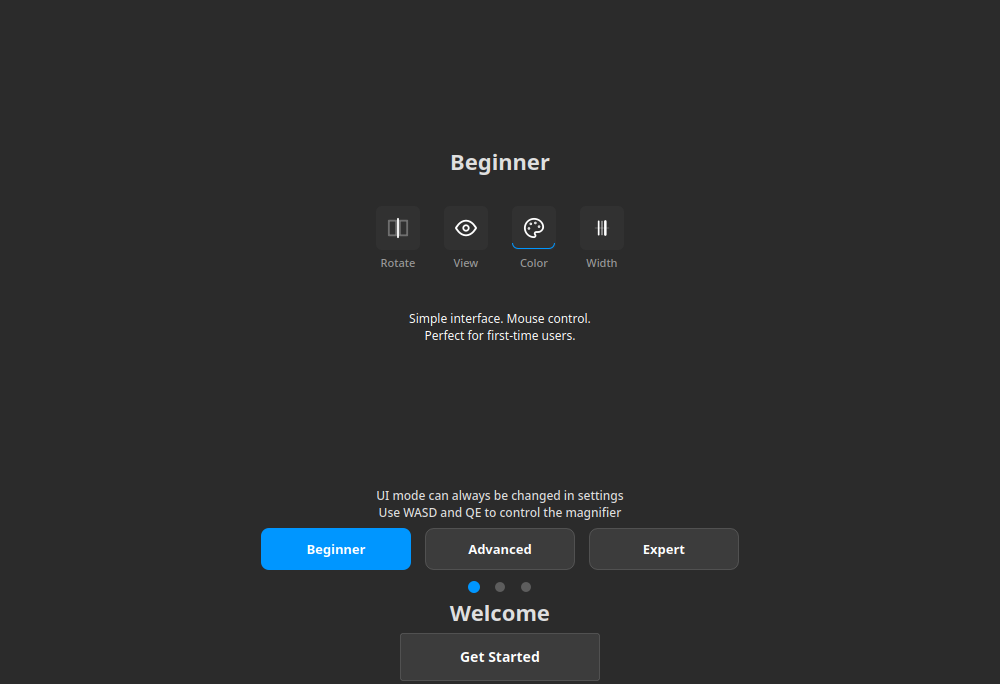
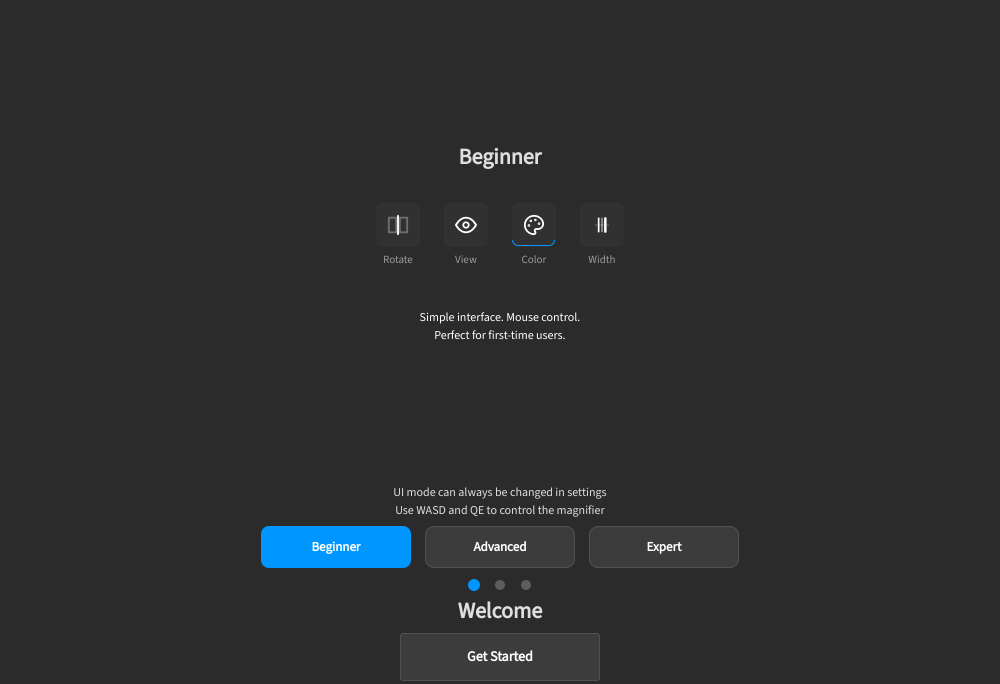
feat(devtools): regenerate the covered help figures at a pinned canonical env (P4) (#498)
feat(devtools): regenerate the covered help figures at a pinned canonical env (P4) (#498)

Canonical capture env (bundled Source Sans 3, QT_SCALE_FACTOR=1, QT_FONT_DPI=96,
Xvfb -dpi 96, xcb) so sha256 baselines are host-independent; 4 covered figures
regenerated + baselined (parity 1280x800/1000x684/1016x776/1032x792); session
picker re-classified hand-composed (no icons / default palette in the surface).
Evidence: --check ok=4 twice, --compare parity=4, devtools+contracts 3011 passed.

diff --git a/src/devtools/help_figures.py b/src/devtools/help_figures.py
@@ -52,8 +52,11 @@ BACKENDS = ("native", "xvfb")
 #: Pins that really go through the surface API (``capture_surface`` CLI:
 #: ``--theme`` -> ``ThemeManager.set_theme``, ``--lang`` -> ``emit_language_changed``).
 PINNABLE = ("locale", "theme")
-#: Pins the surface API cannot express. Recorded, never faked.
-UNPINNABLE = ("font", "ui_scale")
+#: Pins the canonical capture bootstrap forces for EVERY frame (bundled
+#: Source Sans 3, ``QT_SCALE_FACTOR=1``, ``QT_FONT_DPI=96``, Xvfb ``-dpi 96``).
+#: Recorded as applied: the bootstrap fails loudly when the font does not take,
+#: so a capture can never be silently host-flavoured.
+FORCED_PINS = ("font", "ui_scale")
 #: Constructors that hardcode ``current_language="en"`` / ``current_theme="dark"``
 #: (``SETTINGS_KWARGS``, the onboarding store): a non-default filter only reaches
 #: text resolved through ``tr`` at build time, so it is recorded as a caveat.
@@ -324,16 +327,18 @@ def pin_report(
     *,
     captured_size: tuple[int, int] | None = None,
 ) -> tuple[tuple[str, ...], tuple[str, ...]]:
-    """Which pins the surface API really applied for this capture.
+    """Which pins the capture really applied for this figure.
 
+    ``locale``/``theme`` go through the surface API; ``font``/``ui_scale`` are
+    forced by the canonical bootstrap for every frame (see ``FORCED_PINS``).
     Constructors that hardcode their own language/theme are recorded as caveats
     instead of being claimed as applied. A ``size`` pin is only claimed when the
     grabbed pixels really are that size; a surface that refuses the pin is
     recorded as unavailable WITH the achieved size (never silently resized —
     that would fake parity).
     """
-    unavailable = list(UNPINNABLE)
-    applied = list(PINNABLE)
+    unavailable: list[str] = []
+    applied = list(PINNABLE) + list(FORCED_PINS)
     if figure.surface in _PINS_EN:
         unavailable.append("locale:constructor-pins-en")
     if figure.surface in _PINS_DARK and theme != "dark":
@@ -715,6 +720,18 @@ def _free_display_number(start: int = 90, stop: int = 140) -> int:
     raise FigureError(f"no free X display number in {start}..{stop}")
 
 
+def xvfb_command(number: int) -> list[str]:
+    """Private Xvfb invocation for a deterministic frame.
+
+    ``-dpi 96`` is explicit on purpose: Xvfb's default DPI is a property of the
+    server build (100 on this host, 96 on others), and the toolkit scales every
+    px by ``logicalDpi / 96``, so a wrong DPI silently misses every size pin.
+    Matches ``capture_surface.CANONICAL_DPI`` (also forced through
+    ``QT_FONT_DPI``) and the DPI the shipped assets were produced at.
+    """
+    return ["Xvfb", f":{number}", "-screen", "0", "1400x1000x24", "-dpi", "96"]
+
+
 @contextmanager
 def display_context(backend: str = "xvfb") -> Iterator[str]:
     """Provide a DISPLAY for the captures; never defaults to ``:0``.
@@ -725,6 +742,7 @@ def display_context(backend: str = "xvfb") -> Iterator[str]:
     if backend not in BACKENDS:
         raise ValueError(f"unknown backend {backend!r}; expected one of {BACKENDS}")
     previous = os.environ.get("DISPLAY")
+    previous_platform = os.environ.get("QT_QPA_PLATFORM")
     if backend == "native":
         if not (previous or "").strip():
             raise FigureError("backend 'native' needs an existing DISPLAY; use --backend xvfb to start one")
@@ -735,7 +753,7 @@ def display_context(backend: str = "xvfb") -> Iterator[str]:
         raise FigureError("Xvfb not found on PATH; use --backend native with a private DISPLAY")
     number = _free_display_number()
     proc = subprocess.Popen(
-        ["Xvfb", f":{number}", "-screen", "0", "1400x1000x24"],
+        xvfb_command(number),
         stdout=subprocess.DEVNULL, stderr=subprocess.DEVNULL,
     )
     try:
@@ -747,6 +765,11 @@ def display_context(backend: str = "xvfb") -> Iterator[str]:
                 raise FigureError(f"Xvfb :{number} did not create its socket within 10s")
             time.sleep(0.05)
         os.environ["DISPLAY"] = f":{number}"
+        # A Wayland desktop session exports WAYLAND_DISPLAY, and Qt then picks
+        # the wayland plugin even with DISPLAY pointing at our Xvfb ("no
+        # outputs - creating placeholder screen"): a different renderer and a
+        # different frame. The Xvfb backend is an X server, so force xcb.
+        os.environ["QT_QPA_PLATFORM"] = "xcb"
         os.environ.setdefault("LIBGL_ALWAYS_SOFTWARE", "1")
         yield os.environ["DISPLAY"]
     finally:
@@ -754,6 +777,10 @@ def display_context(backend: str = "xvfb") -> Iterator[str]:
             os.environ.pop("DISPLAY", None)
         else:
             os.environ["DISPLAY"] = previous
+        if previous_platform is None:
+            os.environ.pop("QT_QPA_PLATFORM", None)
+        else:
+            os.environ["QT_QPA_PLATFORM"] = previous_platform
         proc.terminate()
         try:
             proc.wait(timeout=5)

diff --git a/src/devtools/capture_surface.py b/src/devtools/capture_surface.py
@@ -43,6 +43,24 @@ SRC_ROOT = REPO_ROOT / "src"
 if str(SRC_ROOT) not in sys.path:
     sys.path.insert(0, str(SRC_ROOT))
 
+#: Canonical render environment. Help figures are baselined by ``sha256`` and
+#: gated in CI (``docs/dev/SCREENSHOTS.md`` §Help-figure generator), so a frame
+#: must not depend on the host's fontconfig or DPI: the app's shipped font is
+#: applied explicitly and the scale/DPI Qt reads at ``QApplication`` creation
+#: are fixed here. Without this, a CI runner (DejaVu) and a maintainer host
+#: (Noto) produce different pixels from the same widgets.
+#:
+#: ``96`` is Qt's baseline (``logicalDpi / 96`` is the toolkit's px scale) and
+#: the DPI the shipped Help assets were produced at, so a pinned 1016x776 frame
+#: is really 1016x776. An Xvfb started without ``-dpi`` reports 100 on this
+#: host, which scales every toolkit px by 100/96 and silently misses the pin by
+#: +42/+32 px (measured 2026-10-21) — hence the explicit value, not a default.
+CANONICAL_DPI = 96
+BUNDLED_FONT_PATH = (
+    SRC_ROOT / "shared_toolkit" / "resources" / "fonts" / "SourceSans3-Regular.ttf"
+)
+BUNDLED_FONT_FAMILY = "Source Sans 3"
+
 #: i18n roots registered at bootstrap. Without these, widget strings show the
 #: raw key (``help.topic.foo``) instead of translated text. Mirrors the app's
 #: own bootstrap registration; validated against the throwaway capture
@@ -440,6 +458,46 @@ def _require_display() -> str:
     return display
 
 
+def _pin_canonical_env() -> None:
+    """Fix the variables Qt reads *before* ``QApplication`` is created.
+
+    ``QT_SCALE_FACTOR``/``QT_FONT_DPI`` are read once at app creation; setting
+    them later is a no-op. Forced (not defaulted) on purpose: a devtool frame
+    that changes with the caller's shell is not reproducible.
+    """
+    os.environ["QT_SCALE_FACTOR"] = "1"
+    os.environ["QT_FONT_DPI"] = str(CANONICAL_DPI)
+
+
+def _apply_canonical_font(app) -> str:
+    """Apply the font the product ships and prove it took.
+
+    The app's default ``ui_font_mode`` is ``builtin`` (Source Sans 3); a capture
+    that silently falls back to the system sans is a different product. Loading
+    the TTF directly (rather than ``FontManager``) keeps this devtool free of
+    app bootstrap imports and fails loudly instead of shipping a host-flavoured
+    frame.
+    """
+    from PySide6.QtGui import QFont, QFontDatabase
+
+    if not BUNDLED_FONT_PATH.is_file():
+        raise RuntimeError(f"bundled font missing: {BUNDLED_FONT_PATH}")
+    font_id = QFontDatabase.addApplicationFont(str(BUNDLED_FONT_PATH))
+    families = QFontDatabase.applicationFontFamilies(font_id) if font_id != -1 else []
+    if not families:
+        raise RuntimeError(f"bundled font not loadable: {BUNDLED_FONT_PATH}")
+    family = families[0]
+    if family != BUNDLED_FONT_FAMILY:
+        raise RuntimeError(
+            f"bundled font family is {family!r}, expected {BUNDLED_FONT_FAMILY!r}"
+        )
+    app.setFont(QFont(family))
+    applied = app.font().family()
+    if applied != BUNDLED_FONT_FAMILY:
+        raise RuntimeError(f"canonical font did not take: app font is {applied!r}")
+    return applied
+
+
 def _bootstrap_qt(theme: str, lang: str):
     """Create the QApplication and install theme + i18n (both mandatory).
 
@@ -448,7 +506,9 @@ def _bootstrap_qt(theme: str, lang: str):
     """
     from PySide6.QtWidgets import QApplication
 
+    _pin_canonical_env()
     app = QApplication.instance() or QApplication([])
+    _apply_canonical_font(app)
 
     from core.theme import DARK_THEME_PALETTE, LIGHT_THEME_PALETTE
     from resources.translations import add_i18n_root, emit_language_changed
@@ -518,6 +578,7 @@ def _run_isolated(args) -> int:
     if args.height is not None:
         cmd += ["--height", str(args.height)]
 
+    _pin_canonical_env()
     env = dict(os.environ)
     env["QT_QPA_PLATFORM"] = "offscreen"
     print(LIMITATION, file=sys.stderr)

diff --git a/tests/devtools/test_help_figures.py b/tests/devtools/test_help_figures.py
@@ -319,16 +319,48 @@ def test_pin_report_flags_constructor_pins(hf):
     gallery = next(f for f in manifest.figures if f.surface == "gallery")
 
     applied, unavailable = hf.pin_report(settings, "en", "dark")
-    assert applied == ("locale", "theme")
+    # font/ui_scale are forced by capture_surface's canonical bootstrap for
+    # every frame (and it fails loudly if the font does not take) — claiming
+    # them as caveats would now be false.
+    assert applied == ("locale", "theme", "font", "ui_scale")
     assert "locale:constructor-pins-en" in unavailable
     assert "theme:constructor-pins-dark" not in unavailable  # pinned theme matches the ctor
-    assert "ui_scale" in unavailable and "font" in unavailable
+    assert "ui_scale" not in unavailable and "font" not in unavailable
 
     _, light_unavailable = hf.pin_report(settings, "en", "light")
     assert "theme:constructor-pins-dark" in light_unavailable
 
     _, gallery_unavailable = hf.pin_report(gallery, "en", "dark")
     assert "locale:constructor-pins-en" not in gallery_unavailable
+
+
+# ---------------------------------------------------------------------------
+# Canonical environment (CI baselines are sha256, so the frame must not depend
+# on the host's font or DPI)
+# ---------------------------------------------------------------------------
+
+
+def test_xvfb_command_pins_dpi(hf):
+    cmd = hf.xvfb_command(91)
+    assert cmd[0] == "Xvfb" and ":91" in cmd
+    assert cmd[cmd.index("-dpi") + 1] == "96"
+
+
+def test_canonical_env_pins_scale_and_dpi(hf, monkeypatch):
+    monkeypatch.delenv("QT_SCALE_FACTOR", raising=False)
+    monkeypatch.delenv("QT_FONT_DPI", raising=False)
+    hf.capture_surface._pin_canonical_env()
+    assert hf.capture_surface.os.environ["QT_SCALE_FACTOR"] == "1"
+    assert hf.capture_surface.os.environ["QT_FONT_DPI"] == "96"
+
+
+def test_bootstrap_applies_the_bundled_font(hf, monkeypatch):
+    """The grab must use the product's font, not the host's default sans."""
+    monkeypatch.setenv("QT_QPA_PLATFORM", "offscreen")
+    app = hf.capture_surface._bootstrap_qt("dark", "en")
+    assert app.font().family() == hf.capture_surface.BUNDLED_FONT_FAMILY
+    assert hf.capture_surface.BUNDLED_FONT_FAMILY == "Source Sans 3"
+
 
 
 def test_covered_recipes_pin_the_shipped_frame(hf):

diff --git a/docs/dev/SCREENSHOTS.md b/docs/dev/SCREENSHOTS.md
@@ -132,10 +132,17 @@ python src/devtools/help_figures.py --all --write-manifest       # record baseli
   fresh recipe stays `unbaselined` until someone runs `--all --write-manifest`
   on a private Xvfb.
 - **Pins are recorded, not assumed.** `locale` and `theme` go through
-  `capture_surface`'s CLI (`emit_language_changed`, `ThemeManager.set_theme`);
-  `ui_scale` and `font` have no knob at all. Surfaces that hardcode their own
-  language or theme (`SETTINGS_KWARGS`, the onboarding store) list
-  `locale:constructor-pins-en` / `theme:constructor-pins-dark` under
+  `capture_surface`'s CLI (`emit_language_changed`, `ThemeManager.set_theme`).
+  `font` and `ui_scale` are forced for every capture by the canonical
+  bootstrap: the app's bundled **Source Sans 3** is loaded and proven applied
+  (the run fails loudly if it is not), `QT_SCALE_FACTOR=1` and
+  `QT_FONT_DPI=96` are set before `QApplication`, `QT_QPA_PLATFORM=xcb` is forced
+  for the Xvfb backend, and the private Xvfb starts with `-dpi 96` — so a
+  baseline hash does not depend on the host's fontconfig or DPI. (`96` is Qt's
+  baseline and the toolkit scales px by `logicalDpi / 96`: an Xvfb left at its
+  default 100 DPI misses every size pin by +42/+32 px.) They are recorded as **applied**, not as caveats. Surfaces that
+  hardcode their own language or theme (`SETTINGS_KWARGS`, the onboarding store)
+  list `locale:constructor-pins-en` / `theme:constructor-pins-dark` under
   `pins_unavailable`, so a non-default filter is never claimed as applied.
 - **Size pins are applied to the live window, twice.** `CaptureSession` sizes
   the top-level window, shows it, lets it settle, then applies the pin again
